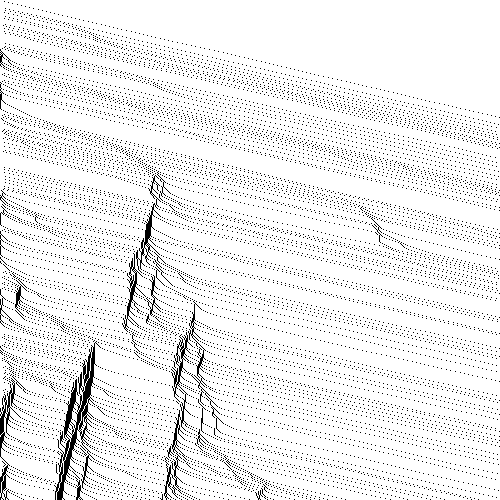
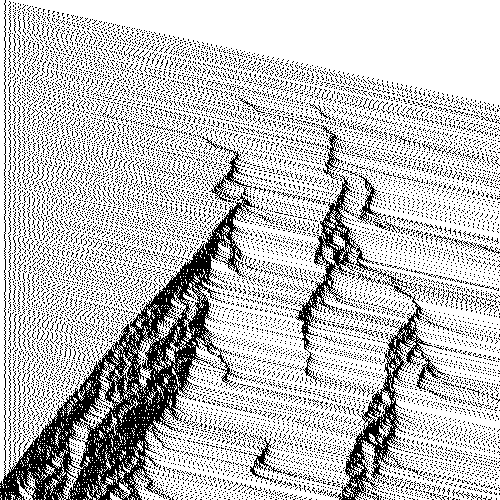
changed breaking behaviour of cars
cars now also use the space coverered by the velocity of the car in front

Changed region(s): [[0.0, 0.0, 1.0, 1.0]]

diff --git a/Car.cpp b/Car.cpp
@@ -15,13 +15,12 @@ void accelerate(TrafficLine& cars)
 void decelerate(TrafficLine& cars)
 {
    if (cars.empty()) return;
-   for (auto carIt = cars.begin(); carIt!=cars.end() - 1; ++carIt)
+   for (auto carIt = cars.rbegin() + 1; carIt!=cars.rend(); ++carIt)
    {
-      auto d = (carIt + 1)->x - carIt->x;
-      assert(d>0);
+      auto d = (carIt - 1)->x + (carIt - 1)->v - carIt->x;
       if (d <= carIt->v)
       {
-         carIt->v = d-1;
+         carIt->v = std::min(d-1, carIt->vmax);
       }
    }
 }

diff --git a/main.cpp b/main.cpp
@@ -17,10 +17,10 @@ int main()
    {
       if (timestep % 100 == 0)
          std::cout << "timestep: " << timestep << std::endl;
-      addCar(tl, 0.4);
+      addCar(tl, 1.0);
       accelerate(tl);
       decelerate(tl);
-      dawdle(tl, 0.7);
+      dawdle(tl, 0.3);
       move(tl);
       removeCars(tl, streetLength);
       for (const Car& car : tl)
